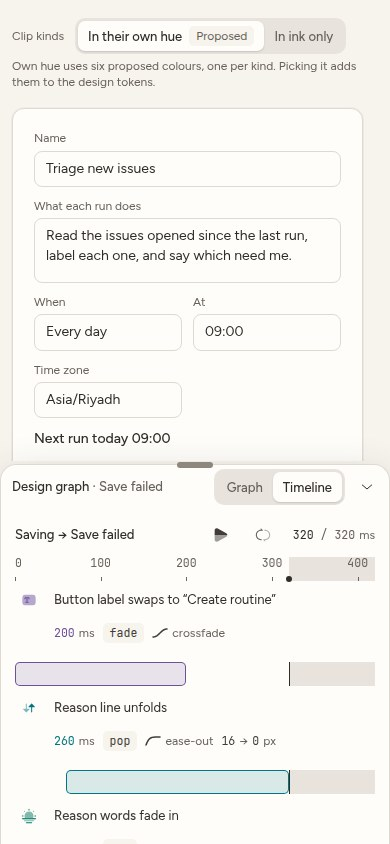
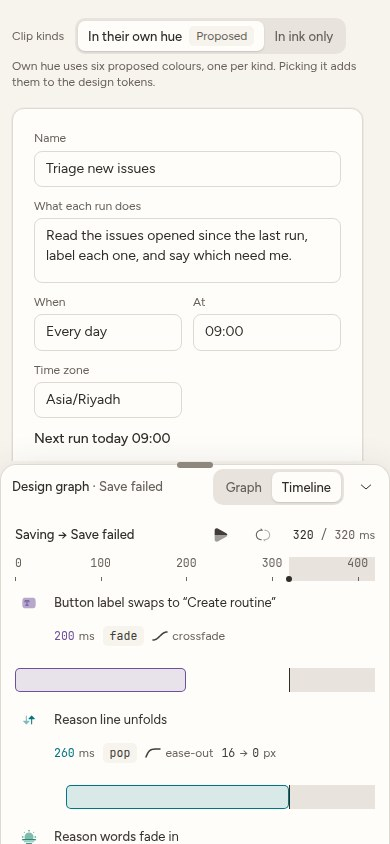
design-graph r29: the third review's fixes
Every pressable thing at 390 and 320 takes a press over 44 × 44 by elementFromPoint, with no neighbour's
layer stealing: stacked timeline rows stand their lanes 10px under the facts and keep 10px under the lane;
doors' layers reach 10px out over the well's edge and 6px in; the toolbar keeps --space-5 to the well; Hide
keeps its 30px and the head's end its layer; the Duration field's wrapper takes the press. A door that
changes band takes the new clip in the same frame, its shadow's reach held inside the well. By day the
chosen row's wash is the house wash at 40% (--c-chosen-wash); at night the wash itself. A pinned slab name
never stands on a state: where it would, it scrolls away with its slab.

check.mjs: 218 PASS, run twice, Chromium and WebKit.

diff --git a/.mockups/design-graph/page.html b/.mockups/design-graph/page.html
@@ -1859,6 +1859,10 @@
   --c-graph-edge-ink: light-dark(var(--border-contrast), var(--border-row-outline));
   --c-graph-edge-chosen: light-dark(var(--brand-ink-strong), var(--brand-solid));
   --c-graph-label-bg: light-dark(var(--surface-recess), var(--surface-recess-deep));
+  /* The chosen clip row's wash: by day the house wash at 40%, so a choice reads as chosen and not as the red of
+     a failure or the action (the third review: the solid day wash read as the Save-failed card's pink); at
+     night the house wash itself. */
+  --c-chosen-wash: light-dark(color-mix(in oklab, var(--brand-wash) 40%, transparent), var(--brand-wash));
   /* Edges (section F): the elbow's radius, the open chevron's legs, the playback dash. */
   --c-edge-elbow-r: var(--radius-sm);
   --c-edge-head-leg: 7px;
@@ -2032,16 +2036,17 @@ button { font: inherit; color: inherit; }
 /* The door is the press: still, transparent, its 44px touch layer standing where it stands. Its face is the
    drawing: it slides 4px in from the well's edge while a clip on the same clock keeps every frame inside the
    door's own box, so nothing of it draws past the well (the second review: "clip the drawing, not its touch
-   layer"). Its shadow is kept on the three inner sides; the edge side's is the well's edge. */
+   layer"). Its shadow is kept --space-2 out on the three inner sides (a door stands --space-2 in from the view's
+   sides, so that reach stays in the well); the edge side's is the well's edge. */
 .door { all: unset; box-sizing: border-box; position: absolute; display: flex; block-size: var(--c-doorway-tab-h); max-inline-size: calc(100% - 2 * var(--space-2)); font: var(--type-meta); color: var(--ink-muted); white-space: nowrap; cursor: pointer; pointer-events: none; }
 .door[data-on] { pointer-events: auto; }
 .door-face { box-sizing: border-box; display: inline-flex; align-items: center; gap: var(--space-1); flex: 1 1 auto; min-inline-size: 0; padding-inline: var(--space-2) var(--space-1); background: var(--surface-raised); border: 1px solid var(--border-control); box-shadow: var(--shadow-tile); opacity: 0; translate: var(--door-out); clip-path: var(--door-clip-out); transition: opacity var(--dur-exit) var(--ease-out), translate var(--dur-exit) var(--ease-out), clip-path var(--dur-exit) var(--ease-out), background-color var(--dur-control) var(--ease-out); }
 .door[data-on] .door-face { opacity: 1; translate: 0 0; clip-path: var(--door-clip-in); transition: opacity var(--dur-fade) var(--ease-out), translate var(--dur-fade) var(--ease-out), clip-path var(--dur-fade) var(--ease-out), background-color var(--dur-control) var(--ease-out); }
 .door-name { min-inline-size: 0; overflow: hidden; text-overflow: ellipsis; }
 .door svg { flex: none; inline-size: var(--icon-sm); block-size: var(--icon-sm); rotate: var(--door-turn, 0deg); }
-.door[data-band="bottom"] { inset-block-end: 0; --door-out: 0 4px; --door-clip-out: inset(-8px -8px 4px -8px); --door-clip-in: inset(-8px -8px 0 -8px); }
+.door[data-band="bottom"] { inset-block-end: 0; --door-out: 0 4px; --door-clip-out: inset(calc(-1 * var(--space-2)) calc(-1 * var(--space-2)) 4px calc(-1 * var(--space-2))); --door-clip-in: inset(calc(-1 * var(--space-2)) calc(-1 * var(--space-2)) 0 calc(-1 * var(--space-2))); }
 .door[data-band="bottom"] .door-face { border-block-end: 0; border-radius: var(--radius-sm) var(--radius-sm) 0 0; }
-.door[data-band="top"] { inset-block-start: 0; --door-out: 0 -4px; --door-clip-out: inset(4px -8px -8px -8px); --door-clip-in: inset(0 -8px -8px -8px); }
+.door[data-band="top"] { inset-block-start: 0; --door-out: 0 -4px; --door-clip-out: inset(4px calc(-1 * var(--space-2)) calc(-1 * var(--space-2)) calc(-1 * var(--space-2))); --door-clip-in: inset(0 calc(-1 * var(--space-2)) calc(-1 * var(--space-2)) calc(-1 * var(--space-2))); }
 .door[data-band="top"] .door-face { border-block-start: 0; border-radius: 0 0 var(--radius-sm) var(--radius-sm); }
 @media (hover: hover) { .door:hover .door-face { background: var(--surface-hover); color: var(--ink-strong); } }
 .door:focus-visible { outline: var(--focus-ring-width) solid var(--focus-ring); outline-offset: var(--focus-ring-inset); }
@@ -2283,7 +2288,7 @@ html[data-layout="desk"] .panel[data-open="false"] .panel-shell:active .tab-glyp
 /* The chosen clip: the brand wash with the card's 1px brand-solid ring (the second review: the recess alone
    with a ring read as a focused input, not "this one is chosen"). The hover ghost glides under the row a
    pointer is on. */
-.clip[data-chosen]::before { content: ""; position: absolute; z-index: -1; inset: 0 calc(-1 * var(--space-2)); border-radius: var(--radius-sm); background: var(--brand-wash); box-shadow: inset 0 0 0 1px var(--brand-solid); }
+.clip[data-chosen]::before { content: ""; position: absolute; z-index: -1; inset: 0 calc(-1 * var(--space-2)); border-radius: var(--radius-sm); background: var(--c-chosen-wash); box-shadow: inset 0 0 0 1px var(--brand-solid); }
 .row-ghost { position: absolute; z-index: 0; inset-inline: calc(-1 * var(--space-2)); inset-block-start: 0; block-size: var(--ghost-h, 0px); translate: 0 var(--ghost-y, 0px); border-radius: var(--radius-sm); background: var(--surface-hover); opacity: 0; pointer-events: none; transition: translate var(--dur-ghost) var(--ease-in-out), block-size var(--dur-ghost) var(--ease-in-out), opacity var(--dur-control) var(--ease-out); }
 .row-ghost[data-on] { opacity: 1; }
 .row-ghost[data-fresh] { transition: opacity var(--dur-control) var(--ease-out); }
@@ -2538,7 +2543,7 @@ html:is([data-input="touch"], [data-input="touch-hover"]) .fld input { font-size
   .tl { --rows: stacked; }
   .tl-row { grid-template-columns: minmax(0, 1fr); }
   .ruler-row .ruler { grid-column: 1; }
-  .lane { margin-block-start: var(--space-2); grid-column: 1; }
+  .lane { margin-block-start: max(var(--space-2), var(--lane-gap, 0px)); grid-column: 1; }
   .end-area { display: none; }
   .playhead::after { display: none; }
   .lane::before, .ruler::before { content: ""; position: absolute; inset-block: 0; inset-inline: var(--end-x, 100%) 0; background: var(--surface-recess-deep); pointer-events: none; }
@@ -2558,8 +2563,21 @@ html:is([data-input="touch"], [data-input="touch-hover"], [data-screen="phone-po
    controls far enough apart that their 44px layers meet without crossing. */
 html:is([data-input="touch"], [data-input="touch-hover"], [data-screen="phone-portrait"], [data-screen="phone-landscape"]) .t-tabs { overflow: visible; }
 html:is([data-input="touch"], [data-input="touch-hover"], [data-screen="phone-portrait"], [data-screen="phone-landscape"]) .bar-end { gap: calc(var(--c-touch-floor) - var(--c-btn-h-sm)); }
-/* The toolbar's layers reach 4px under it and a door's 8px over its band: --space-4 between keeps them apart. */
-html:is([data-input="touch"], [data-input="touch-hover"], [data-screen="phone-portrait"], [data-screen="phone-landscape"]) .toolbar { margin-block-end: var(--space-4); }
+/* The toolbar's layers reach up to 7px under it (a 24px zoom figure in its 30px row) and a door's 10px over
+   its band: --space-5 between keeps them apart. */
+html:is([data-input="touch"], [data-input="touch-hover"], [data-screen="phone-portrait"], [data-screen="phone-landscape"]) .toolbar { margin-block-end: var(--space-5); }
+/* A door's layer reaches 10px out over the well's edge (into the toolbar's foot margin, clear of its layers)
+   and only 6px into the view, so a slab's name at the view's top keeps its own 44px. */
+html:is([data-input="touch"], [data-input="touch-hover"], [data-screen="phone-portrait"], [data-screen="phone-landscape"]) .door::before { inset-block: auto; block-size: var(--c-touch-floor); }
+html:is([data-input="touch"], [data-input="touch-hover"], [data-screen="phone-portrait"], [data-screen="phone-landscape"]) .door[data-band="top"]::before { inset-block-start: -10px; }
+html:is([data-input="touch"], [data-input="touch-hover"], [data-screen="phone-portrait"], [data-screen="phone-landscape"]) .door[data-band="bottom"]::before { inset-block-end: -10px; }
+/* The head's last control keeps its layer on the screen: the head stands its end that much in. */
+html:is([data-input="touch"], [data-input="touch-hover"], [data-screen="phone-portrait"], [data-screen="phone-landscape"]) #sheetHead { padding-inline-end: calc((var(--c-touch-floor) - var(--c-btn-h-sm)) / 2 + 1px); }
+/* Hide keeps its 30px; the title gives way first. */
+#sheetHide { flex: none; }
+/* Stacked rows: a bar's 44px layer reaches 10px over and under its lane, so the lane stands 10px under its
+   facts and the row keeps 10px under it, and no row's layer reaches into a neighbour's. */
+html:is([data-input="touch"], [data-input="touch-hover"], [data-screen="phone-portrait"], [data-screen="phone-landscape"]) .clip { padding-block: calc((var(--c-touch-floor) - var(--c-pill-h)) / 2); }
 html:is([data-input="touch"], [data-input="touch-hover"], [data-screen="phone-portrait"], [data-screen="phone-landscape"]) .transport { gap: calc(var(--c-touch-floor) - var(--c-btn-h-sm)); }
 html:is([data-input="touch"], [data-input="touch-hover"], [data-screen="phone-portrait"], [data-screen="phone-landscape"]) :is(.var, .region-head, .fact, .fld, .curve-opt) { min-block-size: var(--c-touch-floor); }
 html:is([data-input="touch"], [data-input="touch-hover"], [data-screen="phone-portrait"], [data-screen="phone-landscape"]) .var { display: flex; align-items: center; }
@@ -2567,6 +2585,7 @@ html:is([data-input="touch"], [data-input="touch-hover"], [data-screen="phone-po
 html:is([data-input="touch"], [data-input="touch-hover"], [data-screen="phone-portrait"], [data-screen="phone-landscape"]) :is(.dslider, .pop input[type="range"], .dial input[type="range"]) { min-block-size: var(--c-touch-floor); }
 html:is([data-input="touch"], [data-input="touch-hover"], [data-screen="phone-portrait"], [data-screen="phone-landscape"]) .bar { touch-action: none; }
 html:is([data-input="touch"], [data-input="touch-hover"], [data-screen="phone-portrait"], [data-screen="phone-landscape"]) .bar-hit { display: block; }
+html:is([data-input="touch"], [data-input="touch-hover"], [data-screen="phone-portrait"], [data-screen="phone-landscape"]) .tl { --lane-gap: calc((var(--c-touch-floor) - var(--c-pill-h)) / 2); }
 html:is([data-input="touch"], [data-input="touch-hover"], [data-screen="phone-portrait"], [data-screen="phone-landscape"]) .edge .hit { stroke-width: var(--c-touch-floor); }
 html:is([data-input="touch"], [data-input="touch-hover"], [data-screen="phone-portrait"], [data-screen="phone-landscape"]) .ceditor .knob-hit { display: inline; }
 html:is([data-input="touch"], [data-input="touch-hover"]) :is(.node, .var) { -webkit-touch-callout: none; -webkit-user-select: none; user-select: none; }
@@ -6685,6 +6704,16 @@ function drawDoors(c) {
     box.append(d);
   }
 }
+// A door that is showing and changes band takes the new band's clip and place in the same frame, its face's
+// transitions held for that frame, so no frame draws the old band's clip at the new place (the third review:
+// a flipped door's shadow reached below the well for a few frames).
+function setBand(d, band) {
+  if (d.dataset.band === band) return;
+  const f = d.querySelector(".door-face");
+  if (!d.hasAttribute("data-on") || !f) { d.dataset.band = band; return; }
+  f.style.transition = "none"; d.dataset.band = band; void f.offsetWidth;
+  requestAnimationFrame(() => { f.style.transition = ""; });
+}
 // The chevron points out through the edge its door stands on.
 const DOOR_TURN = { bottom: "0deg", top: "180deg", right: "-90deg", left: "90deg" };
 // Every scroll, zoom and redraw: the names that pin and the doors that show.
@@ -6730,7 +6759,7 @@ function viewChanged(cid) {
       if (total > room) for (const x of shown) x.d.style.maxInlineSize = Math.floor(room / shown.length) + "px";
     }
     let next = s2;
-    const places = shown.map((x) => { x.d.dataset.band = band; const w = x.d.offsetWidth; const want = clamp(x.at - w / 2, s2, span - s2 - w); const at = Math.max(want, next); next = at + w + s1; return { x, at, w }; });
+    const places = shown.map((x) => { setBand(x.d, band); const w = x.d.offsetWidth; const want = clamp(x.at - w / 2, s2, span - s2 - w); const at = Math.max(want, next); next = at + w + s1; return { x, at, w }; });
     let limit = span - s2;
     for (let i = places.length - 1; i >= 0; i--) { places[i].at = Math.min(places[i].at, limit - places[i].w); limit = places[i].at - s1; }
     // The band's own left is the view's (the well's edge and the view's share one inline start).
@@ -6750,13 +6779,20 @@ function viewChanged(cid) {
     return viewChanged(cid);
   }
   // A slab's name sticks to the view's top while its top has left the view and the slab is still in it, so the
-  // room the view is in is always named; it stops --space-5 short of its slab's foot.
+  // room the view is in is named; it stops --space-5 short of its slab's foot, stands --space-2 under the view's
+  // top (clear of a door's touch layer, which reaches 6px in), and never stands on a state: where pinned it
+  // would cover one, it scrolls away with its slab instead (the third review).
   for (const r of g.querySelectorAll(".region")) {
     const head = r.querySelector(".region-head"), rb = r.getBoundingClientRect();
-    const natural = rb.top + head.offsetTop * z, want = top + s1;
+    const natural = rb.top + head.offsetTop * z, want = top + s2;
     const most = (r.offsetHeight - head.offsetTop - head.offsetHeight - px("--space-5")) * z;
     const inView = rb.bottom > top + 0.5 && rb.top < top + H - 0.5;
-    const shift = inView ? clamp(want - natural, 0, Math.max(0, most)) : 0;
+    let shift = inView ? clamp(want - natural, 0, Math.max(0, most)) : 0;
+    if (shift > 0.5) {
+      const hb = head.getBoundingClientRect(), t = natural + shift, b = t + head.offsetHeight * z;
+      const covers = [...r.querySelectorAll(".node")].some((n) => { const q = n.getBoundingClientRect(); return Math.min(q.right, hb.right) - Math.max(q.left, hb.left) > 0.5 && Math.min(q.bottom, b) - Math.max(q.top, t) > 0.5; });
+      if (covers) shift = 0;
+    }
     head.style.translate = shift > 0.5 ? "0 " + Math.round((shift / z) * 100) / 100 + "px" : "";
     head.toggleAttribute("data-pinned", shift > 0.5);
   }

diff --git a/.mockups/design-graph/style.css b/.mockups/design-graph/style.css
@@ -64,6 +64,10 @@
   --c-graph-edge-ink: light-dark(var(--border-contrast), var(--border-row-outline));
   --c-graph-edge-chosen: light-dark(var(--brand-ink-strong), var(--brand-solid));
   --c-graph-label-bg: light-dark(var(--surface-recess), var(--surface-recess-deep));
+  /* The chosen clip row's wash: by day the house wash at 40%, so a choice reads as chosen and not as the red of
+     a failure or the action (the third review: the solid day wash read as the Save-failed card's pink); at
+     night the house wash itself. */
+  --c-chosen-wash: light-dark(color-mix(in oklab, var(--brand-wash) 40%, transparent), var(--brand-wash));
   /* Edges (section F): the elbow's radius, the open chevron's legs, the playback dash. */
   --c-edge-elbow-r: var(--radius-sm);
   --c-edge-head-leg: 7px;
@@ -237,16 +241,17 @@ button { font: inherit; color: inherit; }
 /* The door is the press: still, transparent, its 44px touch layer standing where it stands. Its face is the
    drawing: it slides 4px in from the well's edge while a clip on the same clock keeps every frame inside the
    door's own box, so nothing of it draws past the well (the second review: "clip the drawing, not its touch
-   layer"). Its shadow is kept on the three inner sides; the edge side's is the well's edge. */
+   layer"). Its shadow is kept --space-2 out on the three inner sides (a door stands --space-2 in from the view's
+   sides, so that reach stays in the well); the edge side's is the well's edge. */
 .door { all: unset; box-sizing: border-box; position: absolute; display: flex; block-size: var(--c-doorway-tab-h); max-inline-size: calc(100% - 2 * var(--space-2)); font: var(--type-meta); color: var(--ink-muted); white-space: nowrap; cursor: pointer; pointer-events: none; }
 .door[data-on] { pointer-events: auto; }
 .door-face { box-sizing: border-box; display: inline-flex; align-items: center; gap: var(--space-1); flex: 1 1 auto; min-inline-size: 0; padding-inline: var(--space-2) var(--space-1); background: var(--surface-raised); border: 1px solid var(--border-control); box-shadow: var(--shadow-tile); opacity: 0; translate: var(--door-out); clip-path: var(--door-clip-out); transition: opacity var(--dur-exit) var(--ease-out), translate var(--dur-exit) var(--ease-out), clip-path var(--dur-exit) var(--ease-out), background-color var(--dur-control) var(--ease-out); }
 .door[data-on] .door-face { opacity: 1; translate: 0 0; clip-path: var(--door-clip-in); transition: opacity var(--dur-fade) var(--ease-out), translate var(--dur-fade) var(--ease-out), clip-path var(--dur-fade) var(--ease-out), background-color var(--dur-control) var(--ease-out); }
 .door-name { min-inline-size: 0; overflow: hidden; text-overflow: ellipsis; }
 .door svg { flex: none; inline-size: var(--icon-sm); block-size: var(--icon-sm); rotate: var(--door-turn, 0deg); }
-.door[data-band="bottom"] { inset-block-end: 0; --door-out: 0 4px; --door-clip-out: inset(-8px -8px 4px -8px); --door-clip-in: inset(-8px -8px 0 -8px); }
+.door[data-band="bottom"] { inset-block-end: 0; --door-out: 0 4px; --door-clip-out: inset(calc(-1 * var(--space-2)) calc(-1 * var(--space-2)) 4px calc(-1 * var(--space-2))); --door-clip-in: inset(calc(-1 * var(--space-2)) calc(-1 * var(--space-2)) 0 calc(-1 * var(--space-2))); }
 .door[data-band="bottom"] .door-face { border-block-end: 0; border-radius: var(--radius-sm) var(--radius-sm) 0 0; }
-.door[data-band="top"] { inset-block-start: 0; --door-out: 0 -4px; --door-clip-out: inset(4px -8px -8px -8px); --door-clip-in: inset(0 -8px -8px -8px); }
+.door[data-band="top"] { inset-block-start: 0; --door-out: 0 -4px; --door-clip-out: inset(4px calc(-1 * var(--space-2)) calc(-1 * var(--space-2)) calc(-1 * var(--space-2))); --door-clip-in: inset(0 calc(-1 * var(--space-2)) calc(-1 * var(--space-2)) calc(-1 * var(--space-2))); }
 .door[data-band="top"] .door-face { border-block-start: 0; border-radius: 0 0 var(--radius-sm) var(--radius-sm); }
 @media (hover: hover) { .door:hover .door-face { background: var(--surface-hover); color: var(--ink-strong); } }
 .door:focus-visible { outline: var(--focus-ring-width) solid var(--focus-ring); outline-offset: var(--focus-ring-inset); }
@@ -488,7 +493,7 @@ html[data-layout="desk"] .panel[data-open="false"] .panel-shell:active .tab-glyp
 /* The chosen clip: the brand wash with the card's 1px brand-solid ring (the second review: the recess alone
    with a ring read as a focused input, not "this one is chosen"). The hover ghost glides under the row a
    pointer is on. */
-.clip[data-chosen]::before { content: ""; position: absolute; z-index: -1; inset: 0 calc(-1 * var(--space-2)); border-radius: var(--radius-sm); background: var(--brand-wash); box-shadow: inset 0 0 0 1px var(--brand-solid); }
+.clip[data-chosen]::before { content: ""; position: absolute; z-index: -1; inset: 0 calc(-1 * var(--space-2)); border-radius: var(--radius-sm); background: var(--c-chosen-wash); box-shadow: inset 0 0 0 1px var(--brand-solid); }
 .row-ghost { position: absolute; z-index: 0; inset-inline: calc(-1 * var(--space-2)); inset-block-start: 0; block-size: var(--ghost-h, 0px); translate: 0 var(--ghost-y, 0px); border-radius: var(--radius-sm); background: var(--surface-hover); opacity: 0; pointer-events: none; transition: translate var(--dur-ghost) var(--ease-in-out), block-size var(--dur-ghost) var(--ease-in-out), opacity var(--dur-control) var(--ease-out); }
 .row-ghost[data-on] { opacity: 1; }
 .row-ghost[data-fresh] { transition: opacity var(--dur-control) var(--ease-out); }
@@ -743,7 +748,7 @@ html:is([data-input="touch"], [data-input="touch-hover"]) .fld input { font-size
   .tl { --rows: stacked; }
   .tl-row { grid-template-columns: minmax(0, 1fr); }
   .ruler-row .ruler { grid-column: 1; }
-  .lane { margin-block-start: var(--space-2); grid-column: 1; }
+  .lane { margin-block-start: max(var(--space-2), var(--lane-gap, 0px)); grid-column: 1; }
   .end-area { display: none; }
   .playhead::after { display: none; }
   .lane::before, .ruler::before { content: ""; position: absolute; inset-block: 0; inset-inline: var(--end-x, 100%) 0; background: var(--surface-recess-deep); pointer-events: none; }
@@ -763,8 +768,21 @@ html:is([data-input="touch"], [data-input="touch-hover"], [data-screen="phone-po
    controls far enough apart that their 44px layers meet without crossing. */
 html:is([data-input="touch"], [data-input="touch-hover"], [data-screen="phone-portrait"], [data-screen="phone-landscape"]) .t-tabs { overflow: visible; }
 html:is([data-input="touch"], [data-input="touch-hover"], [data-screen="phone-portrait"], [data-screen="phone-landscape"]) .bar-end { gap: calc(var(--c-touch-floor) - var(--c-btn-h-sm)); }
-/* The toolbar's layers reach 4px under it and a door's 8px over its band: --space-4 between keeps them apart. */
-html:is([data-input="touch"], [data-input="touch-hover"], [data-screen="phone-portrait"], [data-screen="phone-landscape"]) .toolbar { margin-block-end: var(--space-4); }
+/* The toolbar's layers reach up to 7px under it (a 24px zoom figure in its 30px row) and a door's 10px over
+   its band: --space-5 between keeps them apart. */
+html:is([data-input="touch"], [data-input="touch-hover"], [data-screen="phone-portrait"], [data-screen="phone-landscape"]) .toolbar { margin-block-end: var(--space-5); }
+/* A door's layer reaches 10px out over the well's edge (into the toolbar's foot margin, clear of its layers)
+   and only 6px into the view, so a slab's name at the view's top keeps its own 44px. */
+html:is([data-input="touch"], [data-input="touch-hover"], [data-screen="phone-portrait"], [data-screen="phone-landscape"]) .door::before { inset-block: auto; block-size: var(--c-touch-floor); }
+html:is([data-input="touch"], [data-input="touch-hover"], [data-screen="phone-portrait"], [data-screen="phone-landscape"]) .door[data-band="top"]::before { inset-block-start: -10px; }
+html:is([data-input="touch"], [data-input="touch-hover"], [data-screen="phone-portrait"], [data-screen="phone-landscape"]) .door[data-band="bottom"]::before { inset-block-end: -10px; }
+/* The head's last control keeps its layer on the screen: the head stands its end that much in. */
+html:is([data-input="touch"], [data-input="touch-hover"], [data-screen="phone-portrait"], [data-screen="phone-landscape"]) #sheetHead { padding-inline-end: calc((var(--c-touch-floor) - var(--c-btn-h-sm)) / 2 + 1px); }
+/* Hide keeps its 30px; the title gives way first. */
+#sheetHide { flex: none; }
+/* Stacked rows: a bar's 44px layer reaches 10px over and under its lane, so the lane stands 10px under its
+   facts and the row keeps 10px under it, and no row's layer reaches into a neighbour's. */
+html:is([data-input="touch"], [data-input="touch-hover"], [data-screen="phone-portrait"], [data-screen="phone-landscape"]) .clip { padding-block: calc((var(--c-touch-floor) - var(--c-pill-h)) / 2); }
 html:is([data-input="touch"], [data-input="touch-hover"], [data-screen="phone-portrait"], [data-screen="phone-landscape"]) .transport { gap: calc(var(--c-touch-floor) - var(--c-btn-h-sm)); }
 html:is([data-input="touch"], [data-input="touch-hover"], [data-screen="phone-portrait"], [data-screen="phone-landscape"]) :is(.var, .region-head, .fact, .fld, .curve-opt) { min-block-size: var(--c-touch-floor); }
 html:is([data-input="touch"], [data-input="touch-hover"], [data-screen="phone-portrait"], [data-screen="phone-landscape"]) .var { display: flex; align-items: center; }
@@ -772,6 +790,7 @@ html:is([data-input="touch"], [data-input="touch-hover"], [data-screen="phone-po
 html:is([data-input="touch"], [data-input="touch-hover"], [data-screen="phone-portrait"], [data-screen="phone-landscape"]) :is(.dslider, .pop input[type="range"], .dial input[type="range"]) { min-block-size: var(--c-touch-floor); }
 html:is([data-input="touch"], [data-input="touch-hover"], [data-screen="phone-portrait"], [data-screen="phone-landscape"]) .bar { touch-action: none; }
 html:is([data-input="touch"], [data-input="touch-hover"], [data-screen="phone-portrait"], [data-screen="phone-landscape"]) .bar-hit { display: block; }
+html:is([data-input="touch"], [data-input="touch-hover"], [data-screen="phone-portrait"], [data-screen="phone-landscape"]) .tl { --lane-gap: calc((var(--c-touch-floor) - var(--c-pill-h)) / 2); }
 html:is([data-input="touch"], [data-input="touch-hover"], [data-screen="phone-portrait"], [data-screen="phone-landscape"]) .edge .hit { stroke-width: var(--c-touch-floor); }
 html:is([data-input="touch"], [data-input="touch-hover"], [data-screen="phone-portrait"], [data-screen="phone-landscape"]) .ceditor .knob-hit { display: inline; }
 html:is([data-input="touch"], [data-input="touch-hover"]) :is(.node, .var) { -webkit-touch-callout: none; -webkit-user-select: none; user-select: none; }

diff --git a/.mockups/design-graph/app.js b/.mockups/design-graph/app.js
@@ -762,6 +762,16 @@ function drawDoors(c) {
     box.append(d);
   }
 }
+// A door that is showing and changes band takes the new band's clip and place in the same frame, its face's
+// transitions held for that frame, so no frame draws the old band's clip at the new place (the third review:
+// a flipped door's shadow reached below the well for a few frames).
+function setBand(d, band) {
+  if (d.dataset.band === band) return;
+  const f = d.querySelector(".door-face");
+  if (!d.hasAttribute("data-on") || !f) { d.dataset.band = band; return; }
+  f.style.transition = "none"; d.dataset.band = band; void f.offsetWidth;
+  requestAnimationFrame(() => { f.style.transition = ""; });
+}
 // The chevron points out through the edge its door stands on.
 const DOOR_TURN = { bottom: "0deg", top: "180deg", right: "-90deg", left: "90deg" };
 // Every scroll, zoom and redraw: the names that pin and the doors that show.
@@ -807,7 +817,7 @@ function viewChanged(cid) {
       if (total > room) for (const x of shown) x.d.style.maxInlineSize = Math.floor(room / shown.length) + "px";
     }
     let next = s2;
-    const places = shown.map((x) => { x.d.dataset.band = band; const w = x.d.offsetWidth; const want = clamp(x.at - w / 2, s2, span - s2 - w); const at = Math.max(want, next); next = at + w + s1; return { x, at, w }; });
+    const places = shown.map((x) => { setBand(x.d, band); const w = x.d.offsetWidth; const want = clamp(x.at - w / 2, s2, span - s2 - w); const at = Math.max(want, next); next = at + w + s1; return { x, at, w }; });
     let limit = span - s2;
     for (let i = places.length - 1; i >= 0; i--) { places[i].at = Math.min(places[i].at, limit - places[i].w); limit = places[i].at - s1; }
     // The band's own left is the view's (the well's edge and the view's share one inline start).
@@ -827,13 +837,20 @@ function viewChanged(cid) {
     return viewChanged(cid);
   }
   // A slab's name sticks to the view's top while its top has left the view and the slab is still in it, so the
-  // room the view is in is always named; it stops --space-5 short of its slab's foot.
+  // room the view is in is named; it stops --space-5 short of its slab's foot, stands --space-2 under the view's
+  // top (clear of a door's touch layer, which reaches 6px in), and never stands on a state: where pinned it
+  // would cover one, it scrolls away with its slab instead (the third review).
   for (const r of g.querySelectorAll(".region")) {
     const head = r.querySelector(".region-head"), rb = r.getBoundingClientRect();
-    const natural = rb.top + head.offsetTop * z, want = top + s1;
+    const natural = rb.top + head.offsetTop * z, want = top + s2;
     const most = (r.offsetHeight - head.offsetTop - head.offsetHeight - px("--space-5")) * z;
     const inView = rb.bottom > top + 0.5 && rb.top < top + H - 0.5;
-    const shift = inView ? clamp(want - natural, 0, Math.max(0, most)) : 0;
+    let shift = inView ? clamp(want - natural, 0, Math.max(0, most)) : 0;
+    if (shift > 0.5) {
+      const hb = head.getBoundingClientRect(), t = natural + shift, b = t + head.offsetHeight * z;
+      const covers = [...r.querySelectorAll(".node")].some((n) => { const q = n.getBoundingClientRect(); return Math.min(q.right, hb.right) - Math.max(q.left, hb.left) > 0.5 && Math.min(q.bottom, b) - Math.max(q.top, t) > 0.5; });
+      if (covers) shift = 0;
+    }
     head.style.translate = shift > 0.5 ? "0 " + Math.round((shift / z) * 100) / 100 + "px" : "";
     head.toggleAttribute("data-pinned", shift > 0.5);
   }
